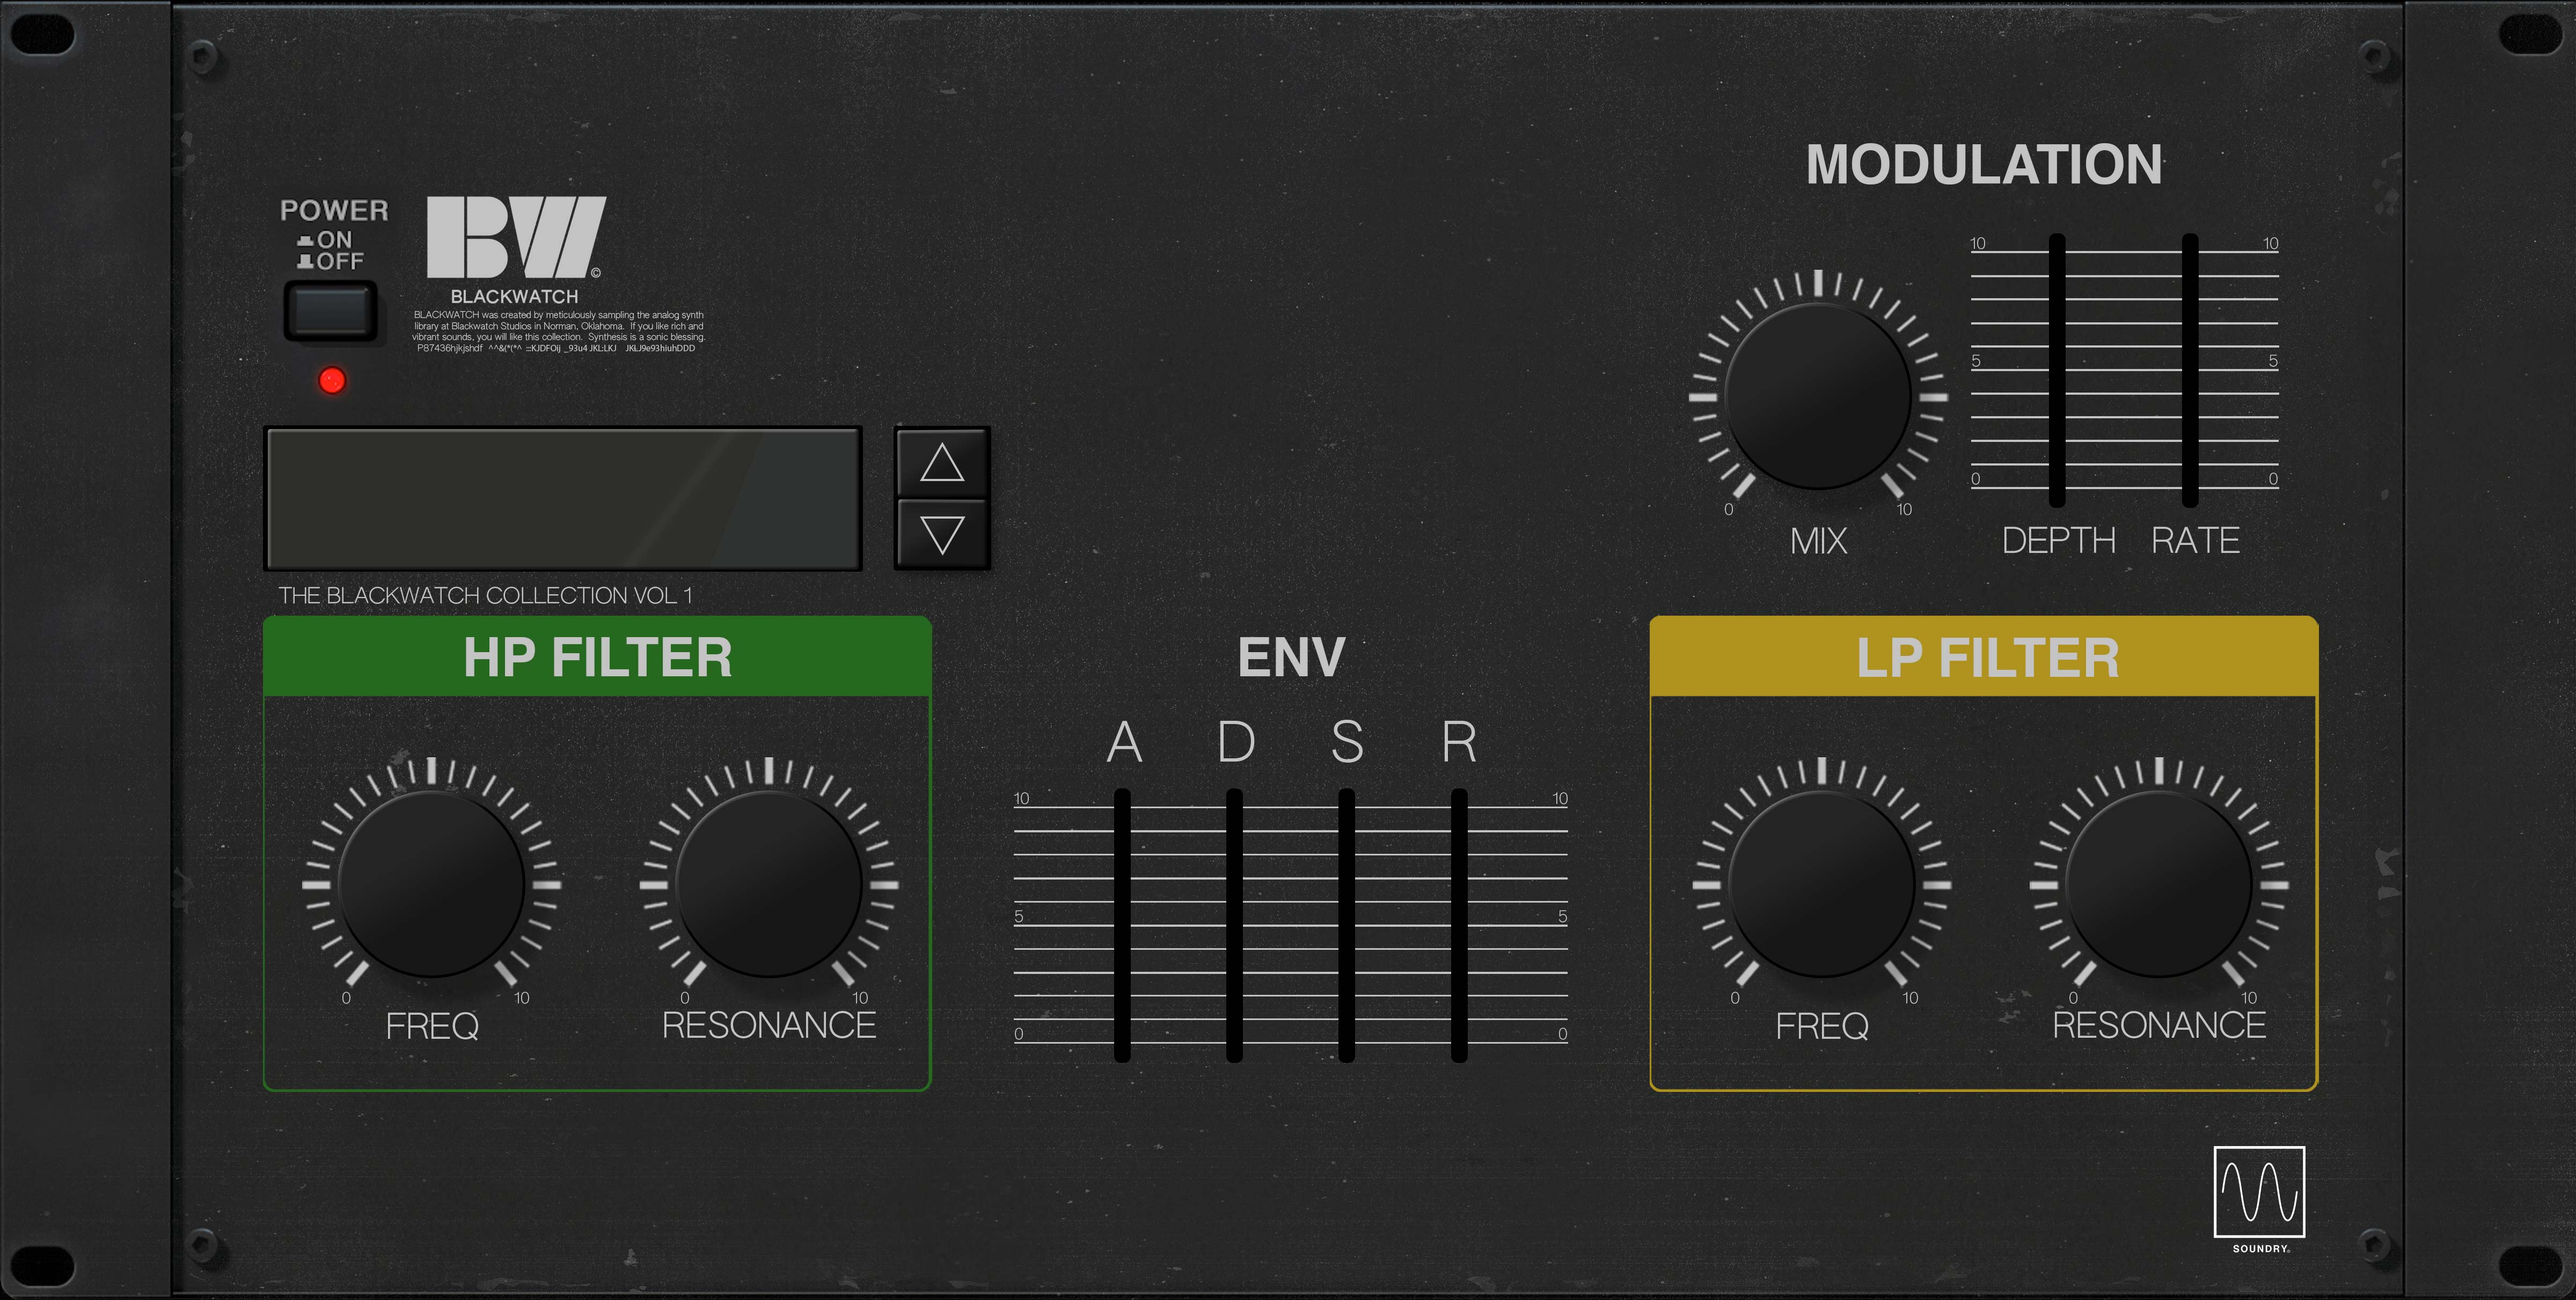
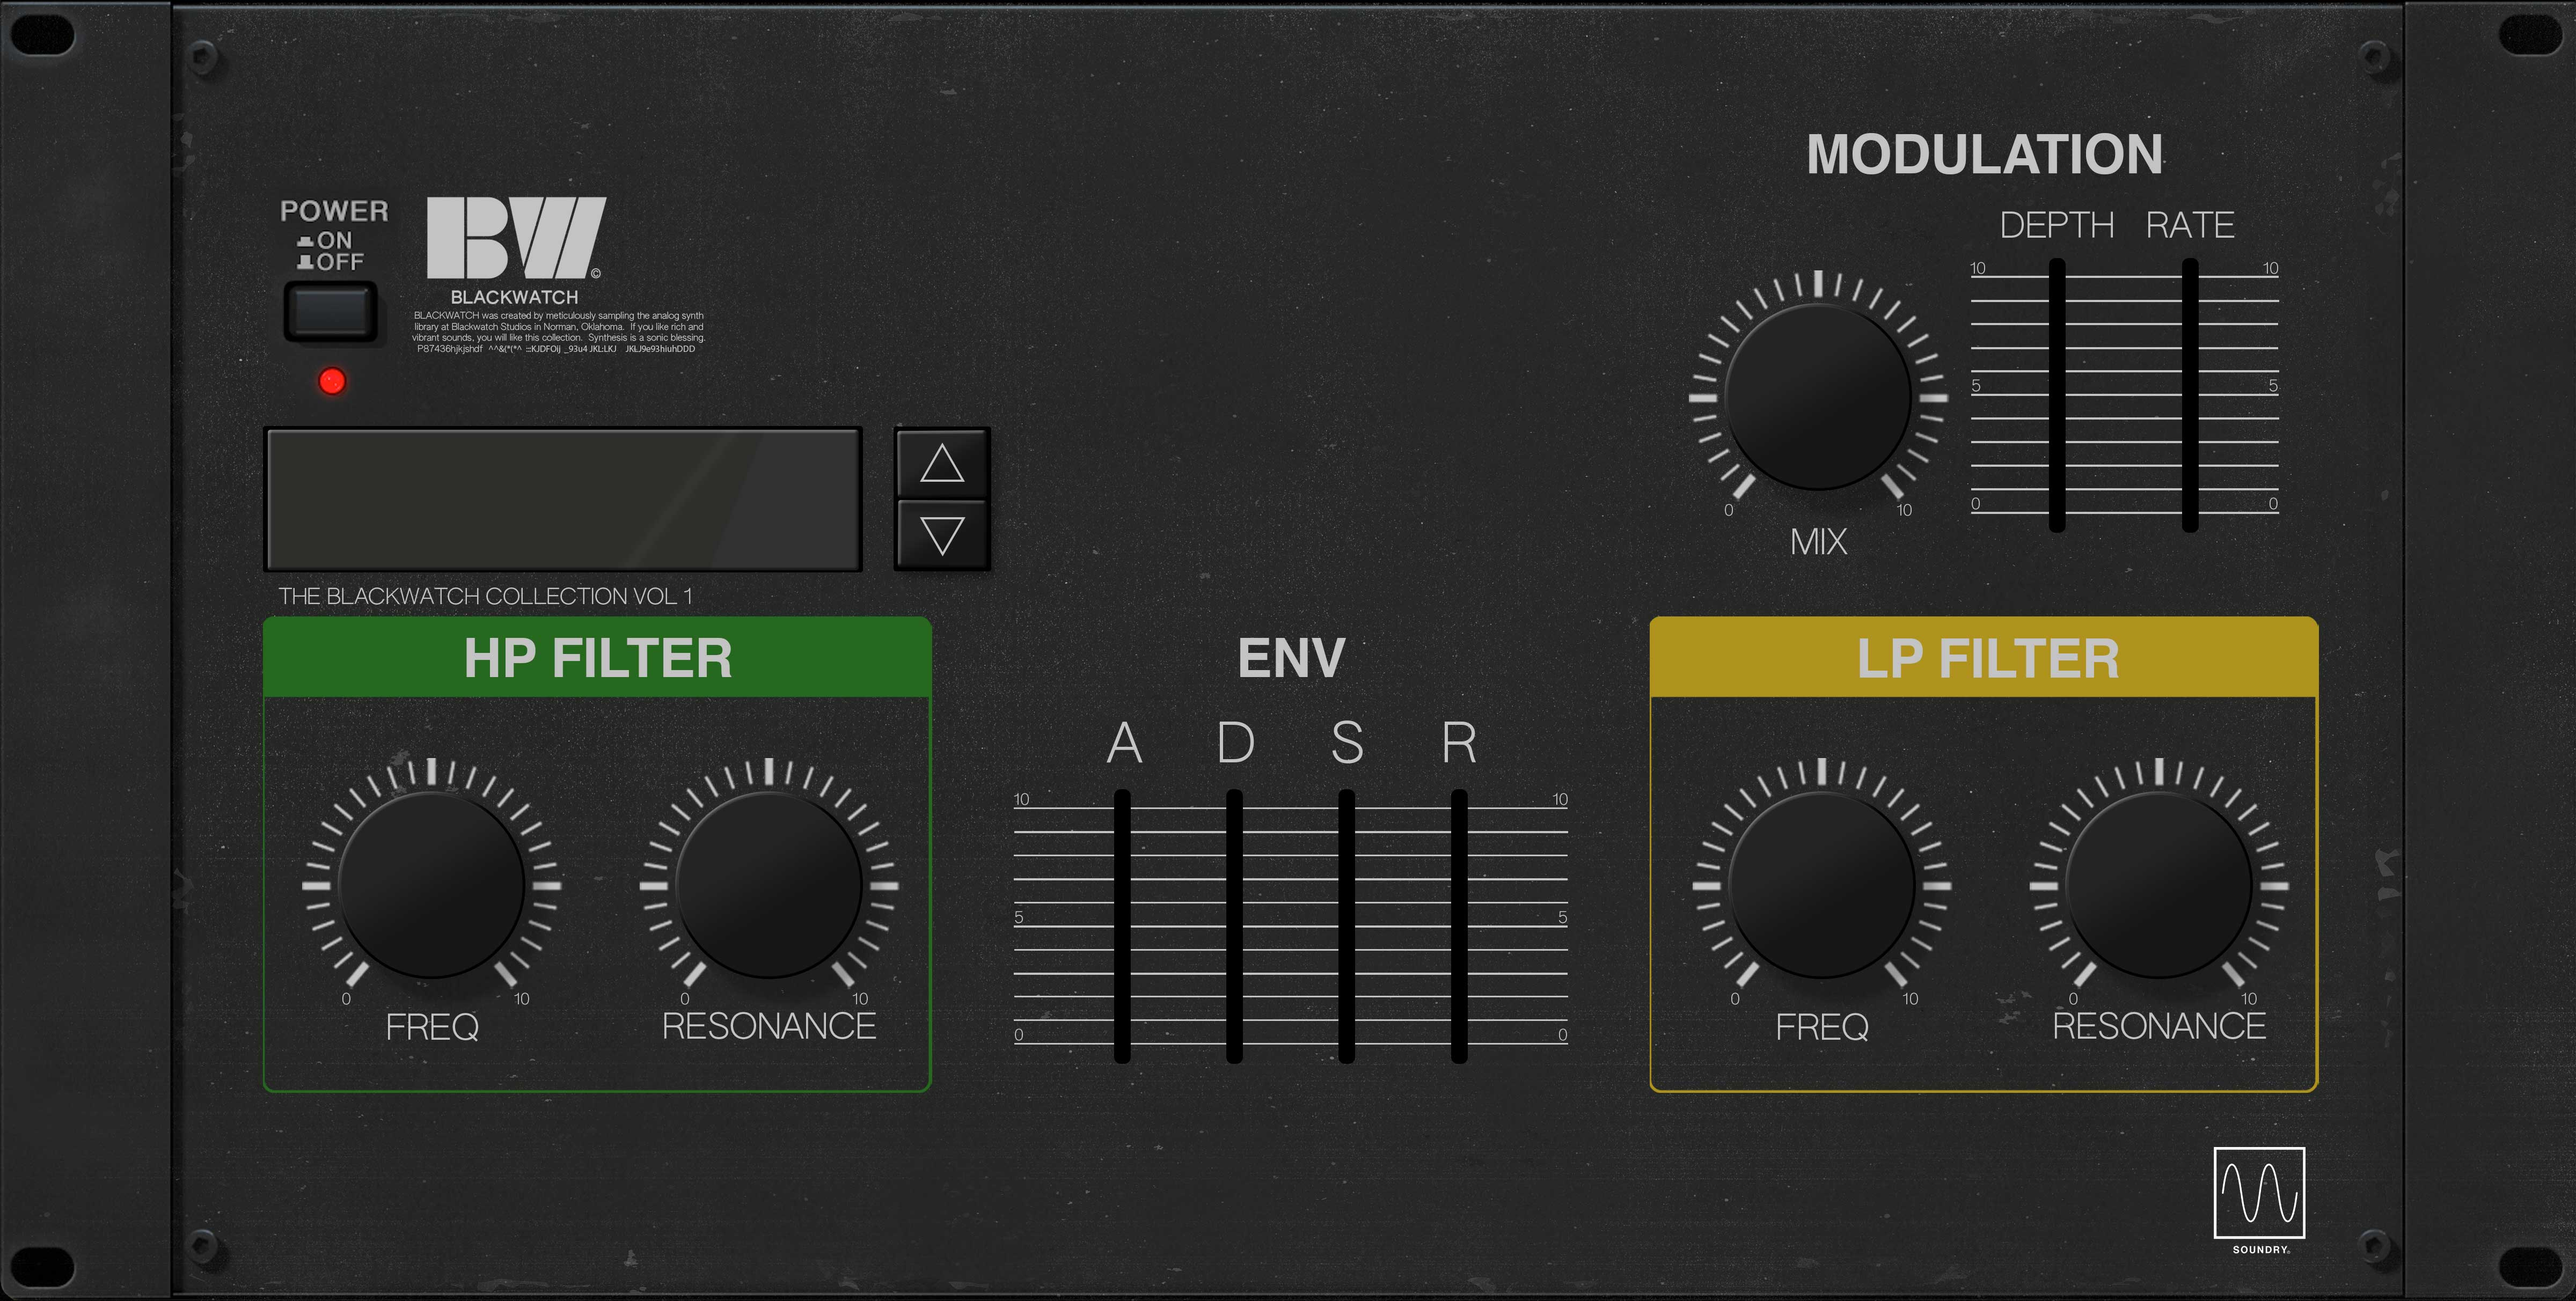
faders and sliders working

diff --git a/gui-web/src/gui/fader.vue b/gui-web/src/gui/fader.vue
@@ -1,0 +1,136 @@
+<script setup lang="ts">
+import { computed, onMounted, ref, watch } from 'vue';
+import { clamp, roundTo } from '@/utils/math';
+
+const props = defineProps<{ args: IFaderArgs }>();
+const divRef = ref<HTMLDivElement | null>(null);
+
+
+export interface IFaderArgs {
+  value: number;
+  percToVal: (val:number) => number;
+  valToPerc: (val:number) => number;
+  valToLabel: (val:number) => string;
+  valToStr?: (val:number) => string;
+  strToVal?: (str:string) => number;
+}
+
+const { percToVal } = props.args;
+
+const valToPerc = (val: number): number => {
+  const p = props.args.valToPerc(val);
+  return clamp(p, 0, 1);
+};
+
+const active = ref<boolean>(false);
+const perc = ref<number>(valToPerc(props.args.value));
+const label = computed(() => {
+  return props.args.valToLabel(props.args.value);
+});
+
+const gripStyle = computed(() => {
+  return {
+    transform: `translateY(${perc.value * -220}px)`,
+  };
+});
+
+watch(() => perc.value, (p: number) => {
+  props.args.value = roundTo(percToVal(p), 5);
+});
+
+let startY = 0;
+let startVal = 0;
+
+onMounted(() => {
+  divRef.value.addEventListener('mousedown', (event) => {
+    active.value = true;
+    startY = event.clientY;
+    startVal = perc.value;
+    document.addEventListener('mousemove', onMouseMove);
+    document.addEventListener('mouseup', onMouseUp);
+  })
+});
+
+function onMouseMove(event:MouseEvent) {
+  const distanceY = startY - event.clientY;
+  const amount = (distanceY) / (218/2);
+  perc.value = Math.max(Math.min(startVal + amount, 1), 0);
+}
+
+function onMouseUp() {
+  document.removeEventListener('mousemove', onMouseMove);
+  document.removeEventListener('mouseup', onMouseUp);
+  active.value = false;
+}
+
+function onDoubleClick() {
+  const oldStr = props.args.valToStr?.(props.args.value) ?? props.args.value ?? '';
+  const newValStr = prompt('', String(oldStr));
+  if (!newValStr) return;
+  const newVal = props.args.strToVal ? props.args.strToVal(newValStr) : parseFloat(newValStr || '');
+  if (isNaN(newVal)) return;
+  perc.value = valToPerc(newVal);
+}
+</script>
+
+<template>
+  <div class="fader" ref="divRef" :class="{ active }" @dblclick="onDoubleClick">
+    <div class="fader-grip" :style="gripStyle">
+      <div class="fader-highlight"></div>
+    </div>
+    <div class="fader-label">{{ label }}</div>
+  </div>
+</template>
+
+<style scoped lang="less">
+.fader {
+  width: unit((188 / 2), px);
+  height: 310px;
+  position: absolute;
+  // box-shadow: 0 0 5px yellow;
+  display: flex;
+  flex-direction: row;
+  justify-content: center;
+  align-items: center;
+  cursor: pointer;
+
+  .fader-grip {
+    position: absolute;
+    width: 100%;
+    height: unit((134 / 2), px);
+    bottom: 32px;
+    background-image: url('./images/fader.png');
+    background-size: 100% 100%;
+  }
+
+  .fader-highlight {
+    position: absolute;
+    top: 30px;
+    height: 7px;
+    right: 20px;
+    left: 20px;
+    transition: background-color 200ms ease-in-out;
+  }
+
+  .fader-label {
+    position: absolute;
+    left:-10px;
+    right:-10px;
+    bottom: 5px;
+    color: #aaa;
+    font-size:28px;
+    transition: color 200ms ease-in-out;
+    text-align: center;
+  }
+
+  &:hover {
+    .fader-highlight {
+      background-color: fade(#09f, 90%);
+    }
+    .fader-label {
+      color: #fff;
+    }
+  }
+}
+
+</style>

diff --git a/gui-web/src/root.vue b/gui-web/src/root.vue
@@ -4,12 +4,71 @@ import { juce } from '@/gui/juce';
 import { autoResizeRootEl } from '@/gui/root-auto-size';
 import Knob, { type IKnobArgs } from '@/gui/knob.vue';
 import LedDisplay from '@/gui/led-display.vue';
+import TheFader, { type IFaderArgs } from '@/gui/fader.vue';
+import { clamp, roundTo } from '@/utils/math';
 
 const model = reactive<IGuiModel>({ } as any);
 const elRef = ref<HTMLDivElement>(null as any);
 
 onMounted(() => {
   autoResizeRootEl(elRef.value);
+});
+
+const timeFaderArgs:Omit<IFaderArgs, 'value'> = {
+  valToLabel: s => `${roundTo(s, 3)}s`,
+  valToPerc: val => Math.pow(clamp((val - 0.01) / 4.99, 0, 1), 1/2),
+  percToVal: p => 0.01 + Math.pow(clamp(p, 0, 1), 2) * 4.99,
+};
+
+const attackArgs:IFaderArgs = reactive({
+  value: 0.1,
+  ...timeFaderArgs,
+});
+
+const decayArgs:IFaderArgs = reactive({
+  value: 0.1,
+  ...timeFaderArgs,
+});
+
+const sustainArgs:IFaderArgs = reactive({
+  value: 1,
+  valToLabel: s => `${roundTo(s * 100, 0)}%`,
+  valToPerc: val => clamp(val, 0, 1),
+  percToVal: p => clamp(p, 0, 1),
+  valToStr: (val:number) => {
+    return String(roundTo(val * 100, 0));
+  },
+  strToVal: (s) => {
+    const x = parseFloat(s) / 100;
+    return clamp(x, 0, 1);
+  },
+});
+
+const releaseArgs:IFaderArgs = reactive({
+  value: 0.1,
+  ...timeFaderArgs,
+});
+
+const modDepthArgs:IFaderArgs = reactive({
+  value: 0.1,
+  valToLabel: s => `${roundTo(s * 100, 0)}%`,
+  valToPerc: val => clamp(val, 0, 1),
+  percToVal: p => clamp(p, 0, 1),
+  valToStr: (val:number) => {
+    return String(roundTo(val * 100, 0));
+  },
+  strToVal: (s) => {
+    const x = parseFloat(s) / 100;
+    return clamp(x, 0, 1);
+  },
+});
+
+const modRateArgs:IFaderArgs = reactive({
+  value: 1,
+  valToLabel: s => `${roundTo(s, 1)} Hz`,
+  valToPerc: val => Math.pow(clamp(val / 20, 0, 1), 1/3),
+  percToVal: p => 0.1 + Math.pow(clamp(p, 0, 1), 3) * 19.9,
+  parse: (s:string) => parseFloat(s),
 });
 
 const hpFreqArgs:IKnobArgs = reactive({
@@ -61,8 +120,14 @@ const modulationMixArgs:IKnobArgs = reactive({
     <knob :style="{ left: `${1256/2}px`, top: `${1474/2}px` }" :args="hpResonanceArgs" />
     <knob :style="{ left: `${3214/2}px`, top: `${1474/2}px` }" :args="lpFreqArgs" />
     <knob :style="{ left: `${3845/2}px`, top: `${1474/2}px` }" :args="lpResonanceArgs" />
-
     <knob :style="{ left: `${3214/2}px`, top: `${568/2}px` }" :args="modulationMixArgs" />
+    <the-fader :style="{ left: `${1992/2}px`, top: `728px` }" :args="attackArgs" />
+    <the-fader :style="{ left: `${2204/2}px`, top: `728px` }" :args="decayArgs" />
+    <the-fader :style="{ left: `${2416/2}px`, top: `728px` }" :args="sustainArgs" />
+    <the-fader :style="{ left: `${2628/2}px`, top: `728px` }" :args="releaseArgs" />
+
+    <the-fader :style="{ left: `1870px`, top: `232px` }" :args="modDepthArgs" />
+    <the-fader :style="{ left: `1996px`, top: `232px` }" :args="modRateArgs" />
   </div>
 </template>
 

diff --git a/gui-web/src/picker/picker.vue b/gui-web/src/picker/picker.vue
@@ -76,7 +76,7 @@ function handleEscapeKey(event: KeyboardEvent) {
 .picker-modal {
   position: fixed;
   inset: 0 0 0 0;
-  background-color: rgba(0, 0, 0, 0.1);
+  background-color: rgba(0, 0, 0, 0.8);
   display: flex;
   flex-direction: row;
   align-items: start;
@@ -84,7 +84,7 @@ function handleEscapeKey(event: KeyboardEvent) {
   overflow-y: scroll;
 
   .picker-modal-body {
-    background-color: #fff;
+    background-color: #444;
     border-radius: 25px;
     padding: 20px;
     margin:50px 25px;
@@ -96,7 +96,7 @@ function handleEscapeKey(event: KeyboardEvent) {
       right: 5px;
       width: 40px;
       height: 40px;
-      background-color: rgba(255, 255, 255, 0.5);
+      background-color: rgba(255, 255, 255, 0.7);
       display: flex;
       align-items: center;
       justify-content: center;
@@ -116,14 +116,16 @@ function handleEscapeKey(event: KeyboardEvent) {
       column-fill: balance;
 
       .picker-option {
-        background-color: #f6f6f6;
+        color: #fff;
+        background-color: #555;
         border-radius: 4px;
         margin-bottom: 2px;
-        padding: 3px 10px;
+        padding: 5px 10px 3px;
         cursor: pointer;
 
         &:hover {
           background-color: #ddd;
+          color: #000;
         }
 
         &.active {

diff --git a/gui-web/src/gui/root-auto-size.ts b/gui-web/src/gui/root-auto-size.ts
@@ -1,5 +1,8 @@
 
 import _ from 'lodash';
+import { ref } from 'vue';
+
+export const rootScalePerc = ref(1);
 
 export const autoResizeRootEl = (el:HTMLDivElement) => {
 
@@ -7,6 +10,7 @@ export const autoResizeRootEl = (el:HTMLDivElement) => {
     const winSize = { width: window.innerWidth, height: window.innerHeight };
     const divSize = { width: el.clientWidth, height: el.clientHeight };
     const perc = Math.min(winSize.width / divSize.width, winSize.height / divSize.height) * 100;
+    rootScalePerc.value = perc;
 
     el.style.transform = `scale(${perc}%)`;
   };

diff --git a/gui-web/src/gui/reset.less b/gui-web/src/gui/reset.less
@@ -4,6 +4,7 @@
 
 * {
   margin: 0;
+  user-select: none;
 }
 
 body {
